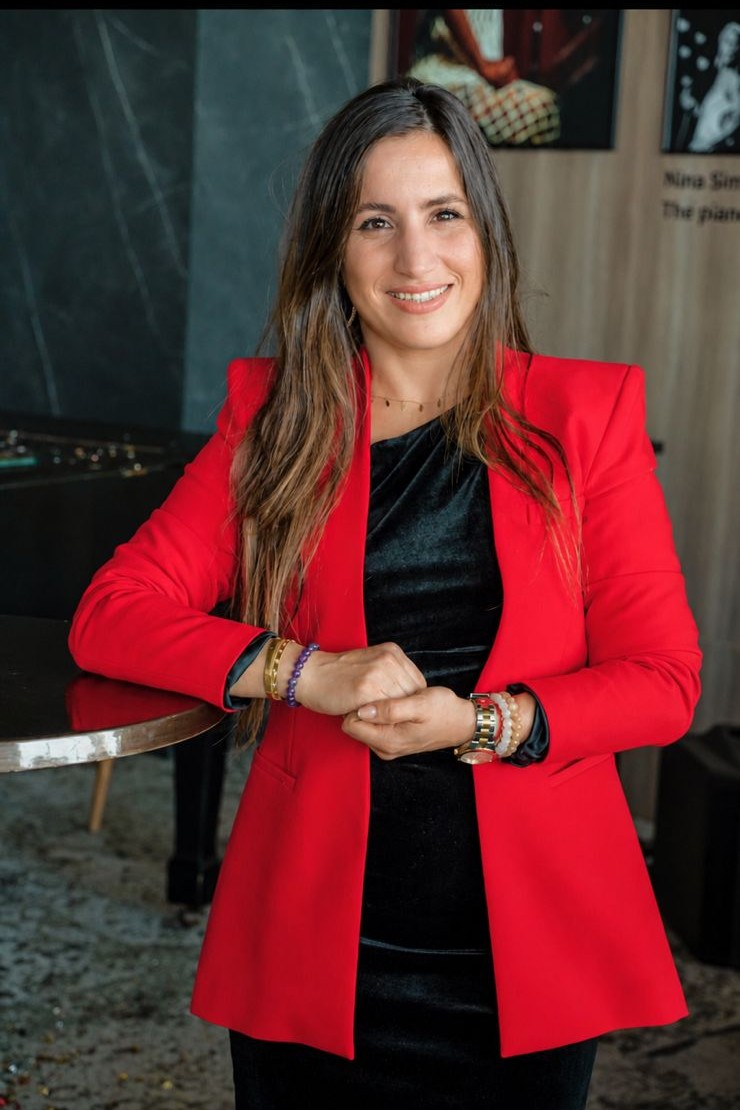
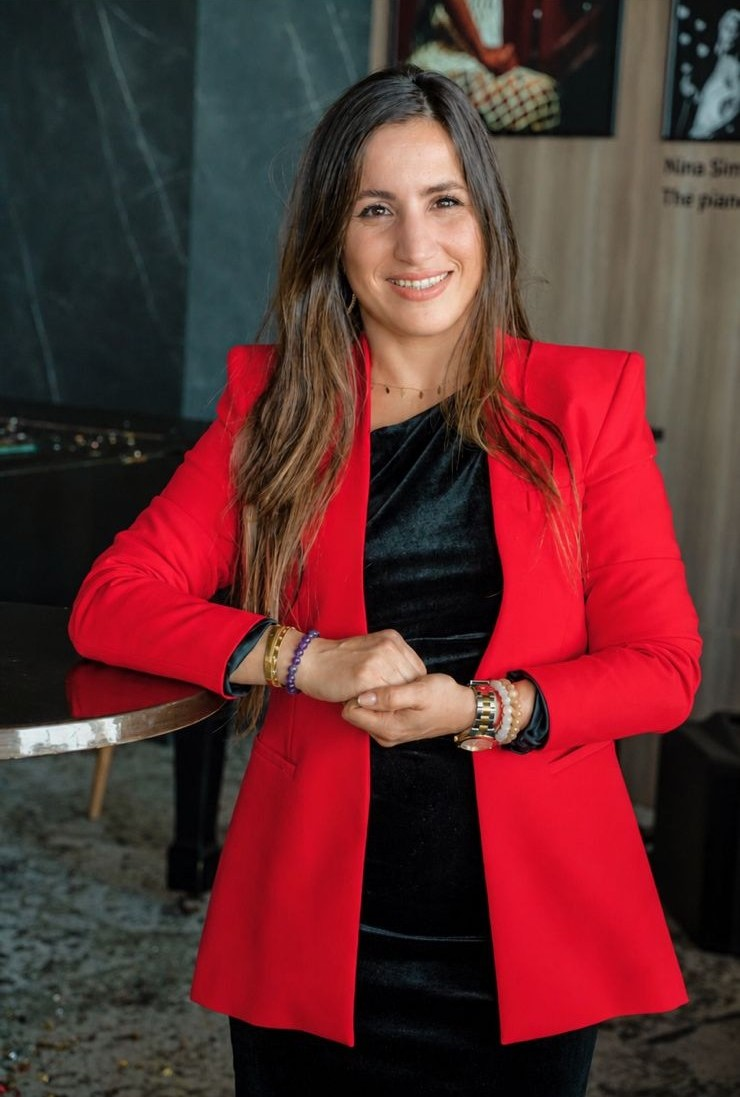
fixed the header and woked on about section

diff --git a/src/Components/Header.jsx b/src/Components/Header.jsx
@@ -3,34 +3,48 @@ import { HashLink } from 'react-router-hash-link';
 import logo from "../assets-home/logo-premium.png"
 import { MoveLeft } from "lucide-react";
 import { useLocation } from "react-router-dom";
+import { useEffect, useState } from "react";
 
 
 
-export default function Navbar() {
+export default function Header() {
   const location = useLocation();
   const isHomeActive = location.pathname === "/" && location.hash === "";
+  const [scrolledHeader , setScrolledHeader] = useState(false);
+  useEffect(() => {
+    const handleScroll = () => {
+        setScrolledHeader(window.scrollY > 50)
+    }
+    window.addEventListener("scroll" , handleScroll)
+    handleScroll()
+    return  () => {
+      window.removeEventListener("scroll", handleScroll);
+    };
+  } , [])
   return (
-    <div className="fixed w-screen px-24 mt-4 z-100">
-        <div className=" flex justify-between items-center px-8  ">
-          <Link to="/"><img src={logo} className="w-30 cursor-pointer" alt="" /></Link>
-          <ul className="flex gap-16 font-medium">
+    <div className={`fixed top-0 left-0 z-100 transition-all duration-700  mt-4 
+     ${scrolledHeader ? "bg-[rgba(255,255,255,0.88)] rounded-full shadow-2xl w-4/5 left-1/2 -translate-x-1/2 px-5" :"w-screen px-36"}`}> 
 
-            <li className="hover:text-black text-(--text-muted) relative after:absolute after:bottom-0.5 after:left-0 after:h-0.5 after:w-0 after:bg-(--gold) hover:after:w-full after:transition-all after:duration-400">
+        <div className=" flex justify-between items-center px-8  ">
+          <Link to="/"><img src={logo} className={`w-30 cursor-pointer ${scrolledHeader? "w-25" :""}`} alt="" /></Link>
+          <ul className={`flex gap-16 ${scrolledHeader ? "gap-5" : ""} font-medium`}>
+
+            <li className="hover:text-black font-semibold text-(--text-muted) relative after:absolute after:bottom-0.5 after:left-0 after:h-0.5 after:w-0 after:bg-(--gold) hover:after:w-full after:transition-all after:duration-400">
                 <NavLink to="/" className={`text-(--text-muted) hover:text-black after:absolute after:bottom-0.5 after:left-0 after:h-0.5 after:bg-(--gold) after:transition-all after:duration-300 ${isHomeActive ? "after:w-full" : "after:w-0 hover:after:w-full"}`}>الرئيسية</NavLink>
             </li>
-            <li className="hover:text-black text-(--text-muted) relative after:absolute after:bottom-0.5 after:left-0 after:h-0.5 after:w-0 after:bg-(--gold) hover:after:w-full after:transition-all after:duration-400">
+            <li className="hover:text-black font-semibold text-(--text-muted) relative after:absolute after:bottom-0.5 after:left-0 after:h-0.5 after:w-0 after:bg-(--gold) hover:after:w-full after:transition-all after:duration-400">
                 <NavLink to="/about" className={({ isActive }) => `text-(--text-muted) hover:text-black after:absolute after:bottom-0.5 after:left-0 after:h-0.5 after:bg-(--gold) after:transition-all after:duration-300 ${isActive ? "after:w-full" : "after:w-0 hover:after:w-full"}`}>من أنا</NavLink>
             </li>
-            <li className="hover:text-black text-(--text-muted) relative after:absolute after:bottom-0.5 after:left-0 after:h-0.5 after:w-0 after:bg-(--gold) hover:after:w-full after:transition-all after:duration-400">
+            <li className="hover:text-black font-semibold text-(--text-muted) relative after:absolute after:bottom-0.5 after:left-0 after:h-0.5 after:w-0 after:bg-(--gold) hover:after:w-full after:transition-all after:duration-400">
                 <NavLink to="/services" className={({ isActive }) => `text-(--text-muted) hover:text-black after:absolute after:bottom-0.5 after:left-0 after:h-0.5 after:bg-(--gold) after:transition-all after:duration-300 ${isActive ? "after:w-full" : "after:w-0 hover:after:w-full"}`}>الخدمات</NavLink>
             </li>
-            <li className="hover:text-black text-(--text-muted) relative after:absolute after:bottom-0.5 after:left-0 after:h-0.5 after:w-0 after:bg-(--gold) hover:after:w-full after:transition-all after:duration-400">
+            <li className="hover:text-black font-semibold text-(--text-muted) relative after:absolute after:bottom-0.5 after:left-0 after:h-0.5 after:w-0 after:bg-(--gold) hover:after:w-full after:transition-all after:duration-400">
                 <NavLink to="/fre-guide" className={({ isActive }) => `text-(--text-muted) hover:text-black after:absolute after:bottom-0.5 after:left-0 after:h-0.5 after:bg-(--gold) after:transition-all after:duration-300 ${isActive ? "after:w-full" : "after:w-0 hover:after:w-full"}`}>كتيب مجاني</NavLink>
             </li>
-            <li className="hover:text-black text-(--text-muted) relative after:absolute after:bottom-0.5 after:left-0 after:h-0.5 after:w-0 after:bg-(--gold) hover:after:w-full after:transition-all after:duration-400">
+            <li className="hover:text-black font-semibold text-(--text-muted) relative after:absolute after:bottom-0.5 after:left-0 after:h-0.5 after:w-0 after:bg-(--gold) hover:after:w-full after:transition-all after:duration-400">
                 <HashLink smooth to="/#Testemonials" className={`text-(--text-muted) hover:text-black after:absolute after:bottom-0.5 after:left-0 after:h-0.5 after:bg-(--gold) after:transition-all after:duration-300 ${location.hash === "#Testemonials" ? "after:w-full" : "after:w-0 hover:after:w-full"}`}>آراء الناس</HashLink>
             </li>
-            <li className="hover:text-black text-(--text-muted) relative after:absolute after:bottom-0.5 after:left-0 after:h-0.5 after:w-0 after:bg-(--gold) hover:after:w-full after:transition-all after:duration-400">
+            <li className="hover:text-black font-semibold text-(--text-muted) relative after:absolute after:bottom-0.5 after:left-0 after:h-0.5 after:w-0 after:bg-(--gold) hover:after:w-full after:transition-all after:duration-400">
                 <HashLink smooth to="/#Q&A" className={`text-(--text-muted) hover:text-black after:absolute after:bottom-0.5 after:left-0 after:h-0.5 after:bg-(--gold) after:transition-all after:duration-300 ${location.hash === "#Q&A" ? "after:w-full" : "after:w-0 hover:after:w-full"}`}>الأسئلة</HashLink>
             </li>
 
@@ -39,6 +53,8 @@ export default function Navbar() {
               <button className="group hover:-translate-y-0.5 transition-all duration-400 flex gap-2 text-amber-50 cursor-pointer rounded-4xl py-3.5 px-8 bg-(--gold) font-bold text-sm">إحجز جلسة <MoveLeft className="-translate-y-1 group-hover:-translate-x-1 transition-all duration-400" /></button>
           </Link>
         </div>
+
+
     </div>
   )
 }

diff --git a/src/Components/AboutHero.jsx b/src/Components/AboutHero.jsx
@@ -1,7 +1,25 @@
+import { faSquareInstagram, faTelegram, faTiktok, faYoutube } from "@fortawesome/free-brands-svg-icons";
+import { FontAwesomeIcon } from "@fortawesome/react-fontawesome";
+import image from "../assets-home/abouthome.jpeg"
 
 export default function AboutHero() {
   return (
-    <div className="text-white">
+    <div className="text-white gap-10 flex justify-center items-center pt-30 px-55">
+      <div>
+        <h1>من أنا؟</h1>
+        <h1>هدى أبحمان</h1>
+        <p>لايف كوتش أرافقك لتجاوز التوتر واستعادة سلامك الداخلي، من خلال تقنيات عميقة وبسيطة تساعدك على التغيير الحقيقي.</p>
+        <span>لأن التغيير الحقيقي يبدأ من الداخل</span>
+        <div className="mt-6 flex gap-6">
+            <div className="hover:-translate-y-2 hover:border-(--gold) duration-400 transition-all bg-[#2d12440d] flex items-center justify-center p-3 rounded-xl cursor-pointer border border-[#dca01133]"><FontAwesomeIcon icon={faTiktok} className="text-xl text-(--gold)"/></div>
+            <div className="hover:-translate-y-2 hover:border-(--gold) duration-400 transition-all bg-[#2d12440d] flex items-center justify-center p-3 rounded-xl cursor-pointer border border-[#dca01133]"><FontAwesomeIcon icon={faSquareInstagram} className="text-xl text-(--gold)" /></div>
+            <div className="hover:-translate-y-2 hover:border-(--gold) duration-400 transition-all bg-[#2d12440d] flex items-center justify-center p-3 rounded-xl cursor-pointer border border-[#dca01133]"><FontAwesomeIcon icon={faYoutube} className="text-xl text-(--gold)" /></div>
+            <div className="hover:-translate-y-2 hover:border-(--gold) duration-400 transition-all bg-[#2d12440d] flex items-center justify-center p-3 rounded-xl cursor-pointer border border-[#dca01133]"><FontAwesomeIcon icon={faTelegram} className="text-xl text-(--gold)" /></div>
+        </div>
+      </div>
+      <div>
+        <img src={image} alt="" className="w-130 rounded-4xl border border-(--gold) p-2"/>
+      </div>
     </div>
   )
 }

diff --git a/src/App.jsx b/src/App.jsx
@@ -1,15 +1,15 @@
 import {Routes , Route} from "react-router-dom"
-import Navbar from "./Components/Navbar"
 import Home from "./Pages/Home"
 import About from "./Pages/About"
 import Services from "./Pages/Services"
 import Footer from "./Components/Footer"
 import FreeGuide from "./Pages/FreeGuide"
+import Header from "./Components/Header"
 function App() {
 
   return (
     <>
-      <Navbar />
+      <Header />
       <Routes>
         <Route path="/" element={<Home/>} />
         <Route path="/about" element={<About/>} />

diff --git a/src/Pages/About.jsx b/src/Pages/About.jsx
@@ -4,7 +4,7 @@ import AboutStory from "../Components/AboutStory";
 
 export default function About() {
   return (
-    <div className="relative bg-(--purple-royal) px-10">
+    <div className="relative bg-(--purple-royal)">
       <AboutHero />
       <AboutStory />
       <AboutSkills />
